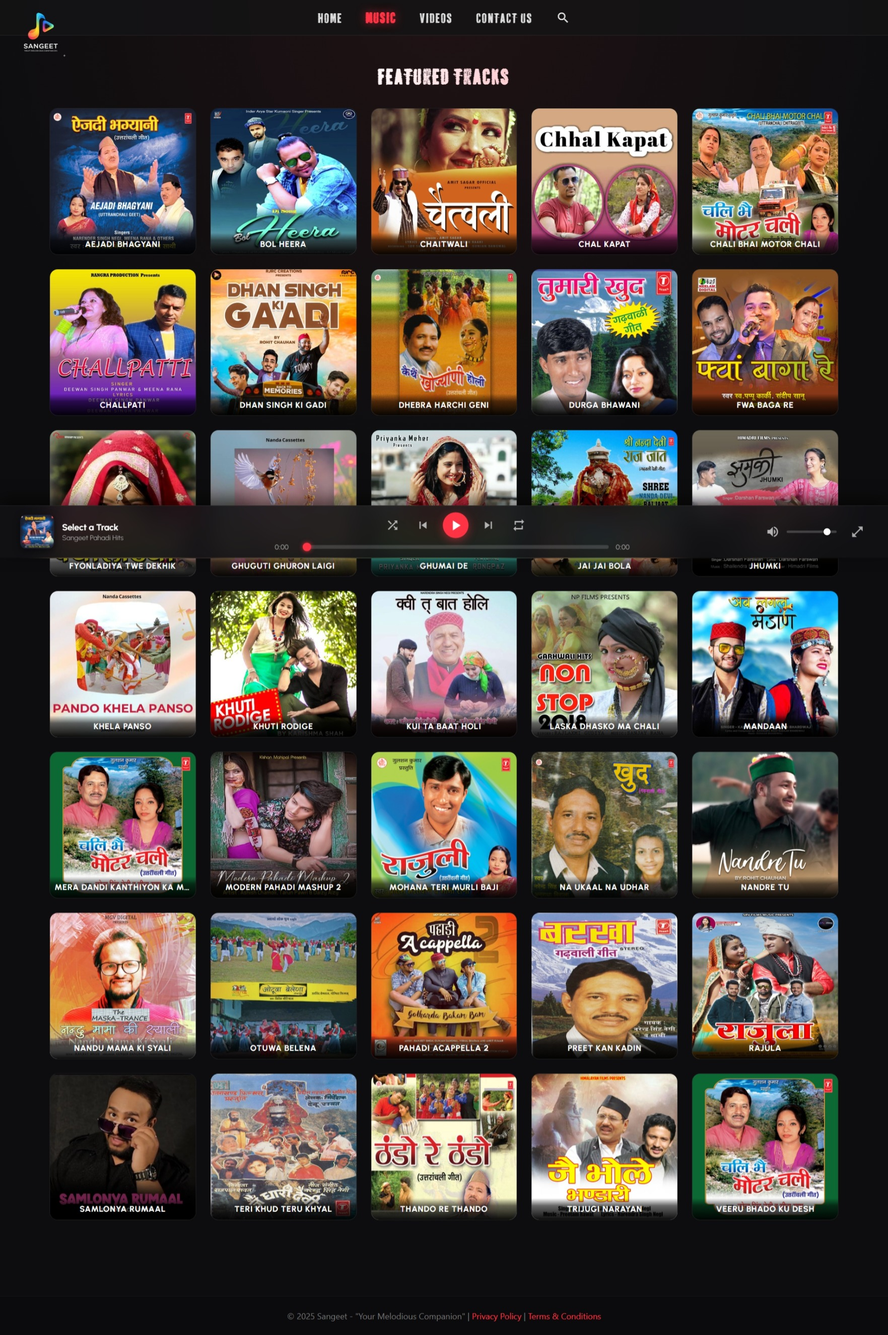
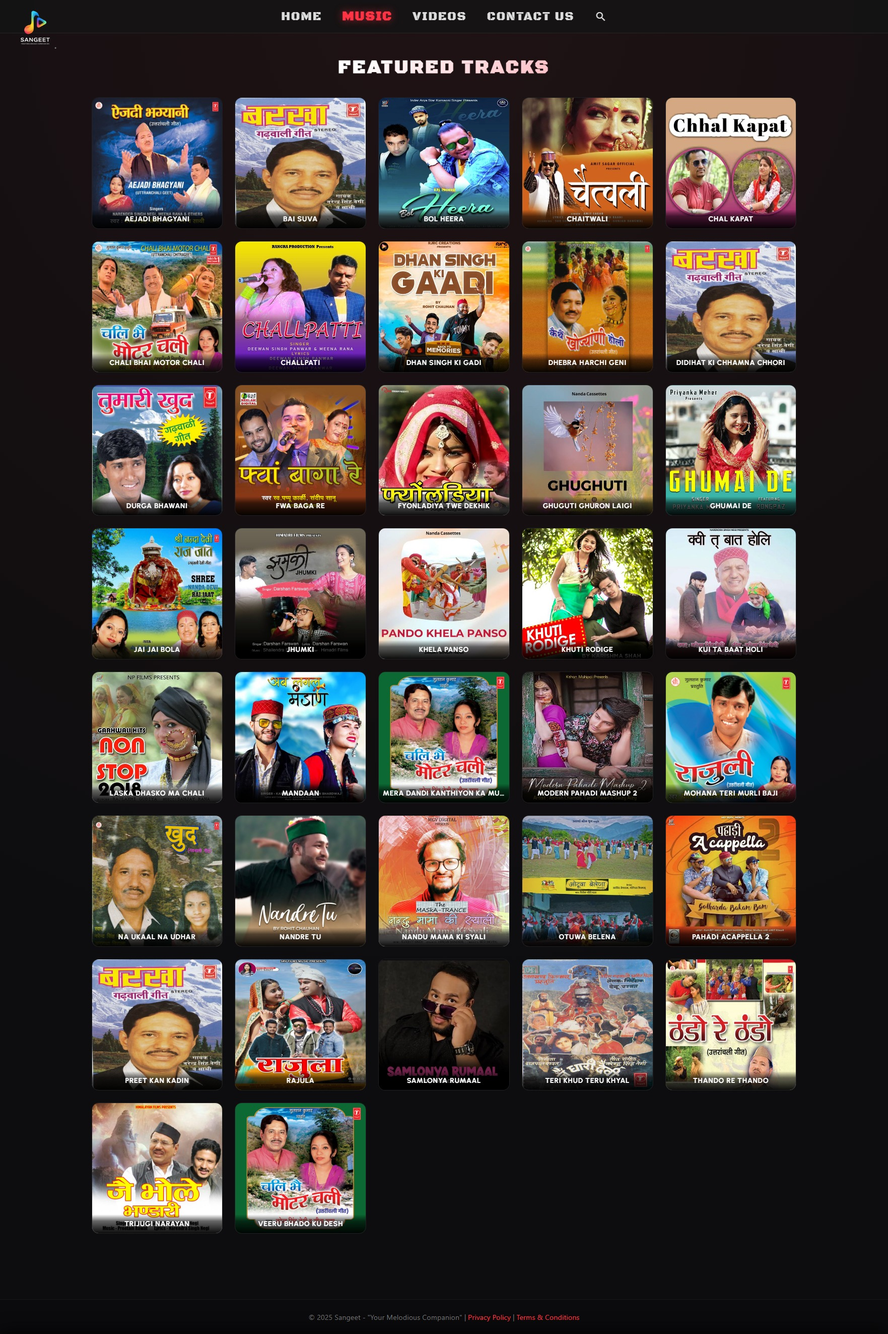
Update interface screenshots and fix preview links in README

diff --git a/README.md b/README.md
@@ -58,46 +58,56 @@
 
 ### ◈ 1. Home — Landing Gateway
 <kbd>
-  <img src="screenshot/Sangeet ui ss.jpeg" alt="Sangeet Home Page" width="90%" style="border-radius: 8px; border: 2px solid #00ff99; box-shadow: 0 0 30px rgba(0, 255, 153, 0.25);" />
+  <a href="screenshot/Sangeet%20ui%20ss.jpeg">
+    <img src="screenshot/Sangeet%20ui%20ss.jpeg" alt="Sangeet Home Page" width="90%" style="border-radius: 8px; border: 2px solid #00ff99; box-shadow: 0 0 30px rgba(0, 255, 153, 0.25);" />
+  </a>
 </kbd>
 <br/>
-<sub style="font-family: 'Bookman Old Style', 'URW Bookman', serif;"><b>◈ Figure 1.0:</b> Central landing gateway featuring hero section, artist showcases, and navigation to all platform modules.</sub>
+<sub style="font-family: 'Bookman Old Style', 'URW Bookman', serif;"><b>◈ Figure 1.0:</b> Central landing gateway featuring animated background hero section, artist showcases, and navigation. <b>[<a href="screenshot/Sangeet%20ui%20ss.jpeg">View Full Screenshot</a>]</b></sub>
 
 <br/><br/>
 
 ### ◈ 2. Music Player — Streaming Hub
 <kbd>
-  <img src="screenshot/Music ss.jpeg" alt="Sangeet Music Player" width="90%" style="border-radius: 8px; border: 2px solid #00d4ff; box-shadow: 0 0 30px rgba(0, 212, 255, 0.25);" />
+  <a href="screenshot/Music%20ss.jpeg">
+    <img src="screenshot/Music%20ss.jpeg" alt="Sangeet Music Player" width="90%" style="border-radius: 8px; border: 2px solid #00d4ff; box-shadow: 0 0 30px rgba(0, 212, 255, 0.25);" />
+  </a>
 </kbd>
 <br/>
-<sub style="font-family: 'Bookman Old Style', 'URW Bookman', serif;"><b>◈ Figure 1.1:</b> Interactive album card grid with persistent floating audio bar, vinyl spin animation, and real-time seek/volume controls.</sub>
+<sub style="font-family: 'Bookman Old Style', 'URW Bookman', serif;"><b>◈ Figure 1.1:</b> Interactive album card grid with persistent floating audio bar, vinyl spin animation, and real-time seek/volume controls. <b>[<a href="screenshot/Music%20ss.jpeg">View Full Screenshot</a>]</b></sub>
 
 <br/><br/>
 
 ### ◈ 3. Now Playing — Fullscreen Modal
 <kbd>
-  <img src="screenshot/song ss.png" alt="Sangeet Now Playing" width="90%" style="border-radius: 8px; border: 2px solid #00ff99; box-shadow: 0 0 30px rgba(0, 255, 153, 0.25);" />
+  <a href="screenshot/song%20ss.png">
+    <img src="screenshot/song%20ss.png" alt="Sangeet Now Playing" width="90%" style="border-radius: 8px; border: 2px solid #00ff99; box-shadow: 0 0 30px rgba(0, 255, 153, 0.25);" />
+  </a>
 </kbd>
 <br/>
-<sub style="font-family: 'Bookman Old Style', 'URW Bookman', serif;"><b>◈ Figure 1.2:</b> Expandable Now Playing modal with high-res vinyl artwork, animated waveform visualizer, and large playback controls.</sub>
+<sub style="font-family: 'Bookman Old Style', 'URW Bookman', serif;"><b>◈ Figure 1.2:</b> Expandable Now Playing modal with high-res rotating vinyl artwork, animated waveform visualizer, and playback controls. <b>[<a href="screenshot/song%20ss.png">View Full Screenshot</a>]</b></sub>
 
 <br/><br/>
 
 ### ◈ 4. Video Gallery — YouTube Showcase
 <kbd>
-  <img src="screenshot/Video ss.jpeg" alt="Sangeet Video Gallery" width="90%" style="border-radius: 8px; border: 2px solid #ff007f; box-shadow: 0 0 30px rgba(255, 0, 127, 0.25);" />
+  <a href="screenshot/Video%20ss.jpeg">
+    <img src="screenshot/Video%20ss.jpeg" alt="Sangeet Video Gallery" width="90%" style="border-radius: 8px; border: 2px solid #ff007f; box-shadow: 0 0 30px rgba(255, 0, 127, 0.25);" />
+  </a>
 </kbd>
 <br/>
-<sub style="font-family: 'Bookman Old Style', 'URW Bookman', serif;"><b>◈ Figure 1.3:</b> Responsive 3-column video gallery with 20+ embedded Uttarakhandi music videos, hover animations, and dark card elevations.</sub>
+<sub style="font-family: 'Bookman Old Style', 'URW Bookman', serif;"><b>◈ Figure 1.3:</b> Responsive 3-column video gallery with embedded Uttarakhandi music videos, hover animations, and dark card elevations. <b>[<a href="screenshot/Video%20ss.jpeg">View Full Screenshot</a>]</b></sub>
 
 <br/><br/>
 
 ### ◈ 5. Contact Portal — Connect & Locate
 <kbd>
-  <img src="screenshot/contact us ss.jpeg" alt="Sangeet Contact Page" width="90%" style="border-radius: 8px; border: 2px solid #ffb703; box-shadow: 0 0 30px rgba(255, 183, 3, 0.25);" />
+  <a href="screenshot/contact%20us%20ss.jpeg">
+    <img src="screenshot/contact%20us%20ss.jpeg" alt="Sangeet Contact Page" width="90%" style="border-radius: 8px; border: 2px solid #ffb703; box-shadow: 0 0 30px rgba(255, 183, 3, 0.25);" />
+  </a>
 </kbd>
 <br/>
-<sub style="font-family: 'Bookman Old Style', 'URW Bookman', serif;"><b>◈ Figure 1.4:</b> Functional contact form powered by FormSubmit with integrated Google Maps location embed and office details.</sub>
+<sub style="font-family: 'Bookman Old Style', 'URW Bookman', serif;"><b>◈ Figure 1.4:</b> Functional contact form with honeypot security, integrated Google Maps embed, and contact information. <b>[<a href="screenshot/contact%20us%20ss.jpeg">View Full Screenshot</a>]</b></sub>
 
 </div>
 
@@ -191,18 +201,27 @@ SANGEET - main/
 ├── covers/                  # High-definition album covers & thumbnails
 │   ├── 1750809799905.jpg
 │   └── Cover of *.jpg
-├── songs/                   # High-quality MP3 audio files
-│   ├── Aejadi Bhagyani.mp3
-│   ├── Chaitwali.mp3
-│   └── ... (35+ tracks)
+├── fonts/                   # Local offline font assets (Dogjaw, Dirt, Distressed)
+│   ├── BlackOpsOne.ttf
+│   ├── RubikDirt.ttf
+│   └── RubikDistressed.ttf
+├── screenshot/              # Interface HUD previews & screenshots
+│   ├── Sangeet ui ss.jpeg   # Home page preview
+│   ├── Music ss.jpeg        # Music streaming hub preview
+│   ├── song ss.png          # Now Playing modal preview
+│   ├── Video ss.jpeg        # Video gallery preview
+│   └── contact us ss.jpeg   # Contact portal preview
 ├── index.html               # Gateway & Home landing interface
 ├── style.css                # Home page styles & animations
-├── music.html               # Interactive music streaming hub
+├── music.html               # Interactive music streaming hub (Cloudinary CDN audio)
 ├── music.css                # Glassmorphic player & modal stylesheets
 ├── video.html               # YouTube video gallery interface
 ├── video.css                # Video gallery grid & card styles
 ├── contact.html             # Contact portal & Google Maps integration
 ├── contact.css              # Contact form styles
+├── vercel.json              # Vercel deployment & security headers configuration
+├── _headers                 # Cloudflare / Netlify security headers
+├── .gitignore               # Ignored local & environment files
 └── README.md                # Platform documentation
 ```
 
@@ -218,7 +237,7 @@ SANGEET - main/
 
 ```bash
 # 1. Clone the repository
-git clone https://github.com/your-username/sangeet.git
+git clone https://github.com/PriyanshuPundir01/Sangeet.git
 
 # 2. Navigate to project root
 cd sangeet
